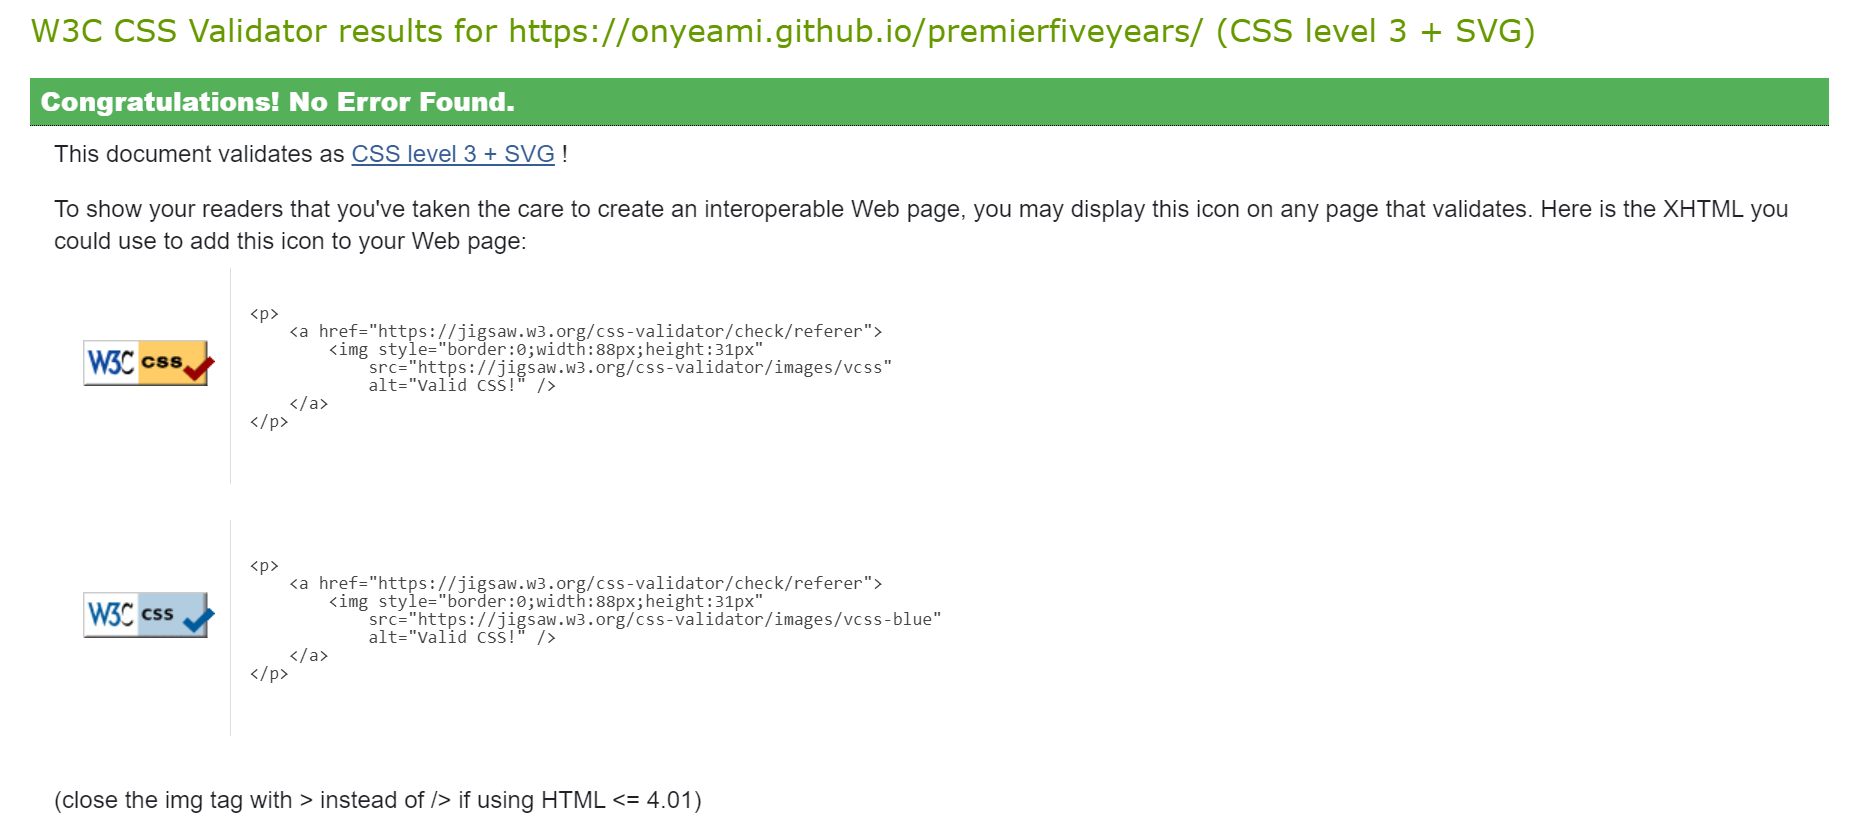
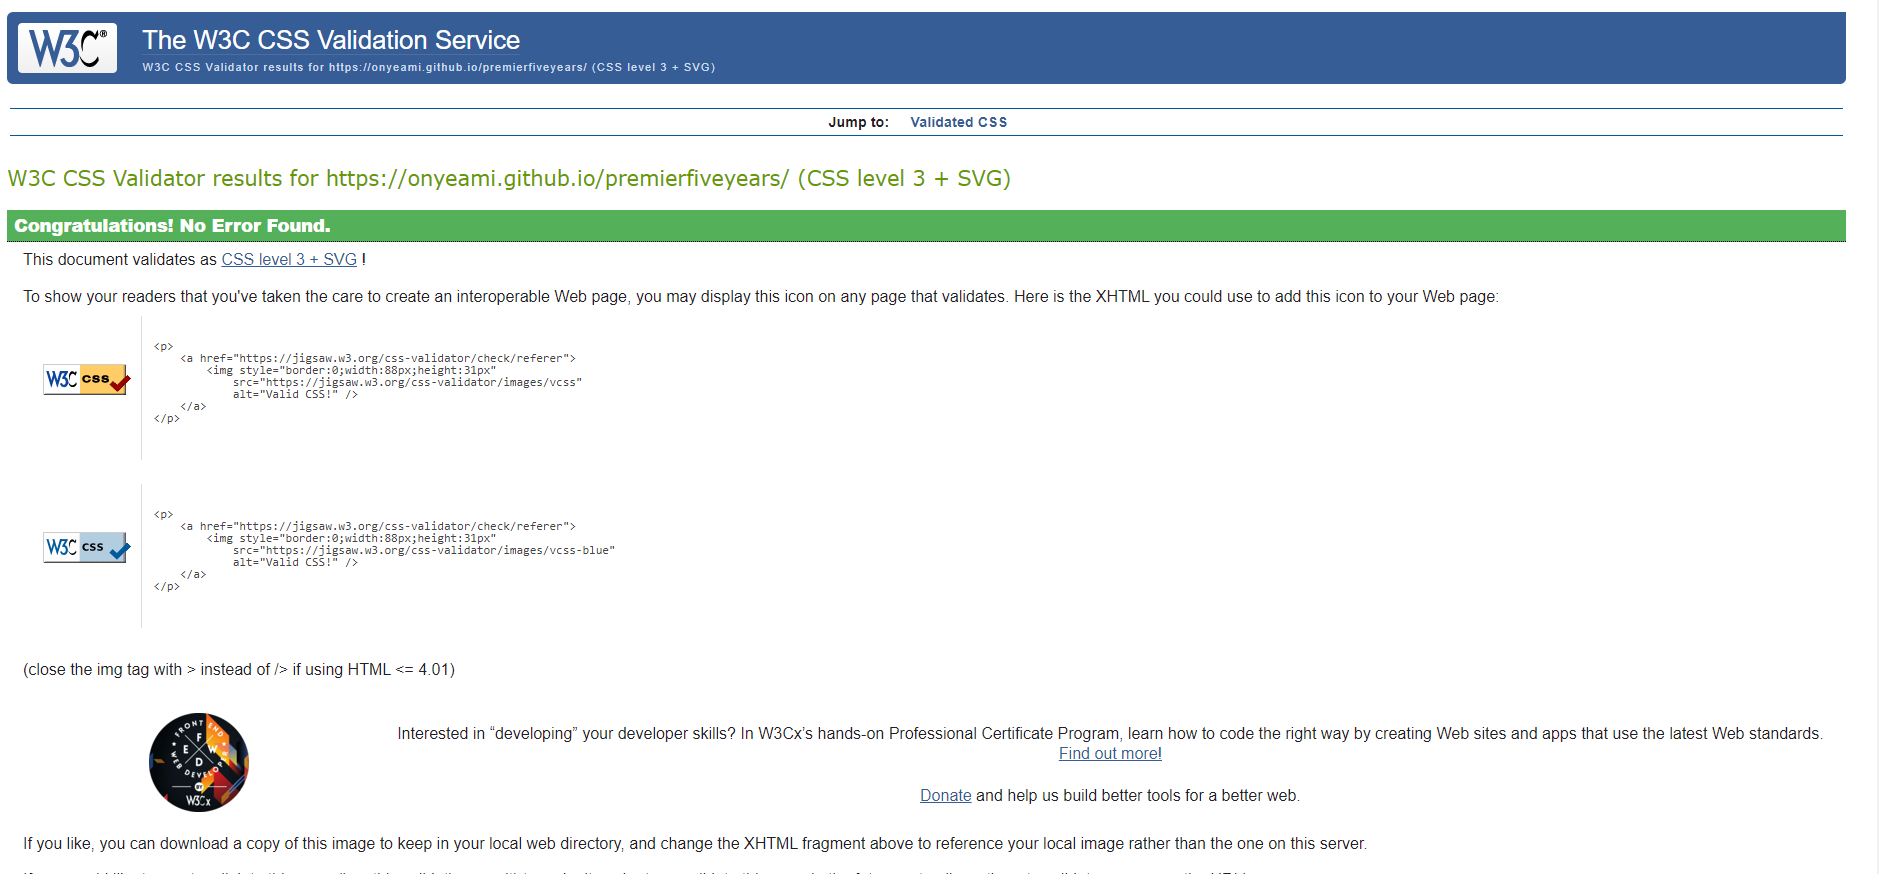
inserting validation images

diff --git a/README.md b/README.md
@@ -121,4 +121,9 @@ The target audience comprises over one billion English Premier League fans from 
 ## Testing
 
 - No errors were found using W3C CSS Validator
+  - [W3C CSS Validator](http://jigsaw.w3.org/css-validator/validator?lang=en&profile=css3svg&uri=https%3A%2F%2Fonyeami.github.io%2Fpremierfiveyears%2F&usermedium=all&vextwarning=&warning=1)
+
+![CSS validator](assets/images/css-validation.png)
+
 - No errors were found using Nu HTML checker
+![Nu HTML checker](assets/images/nuhtmlchecker.png)
